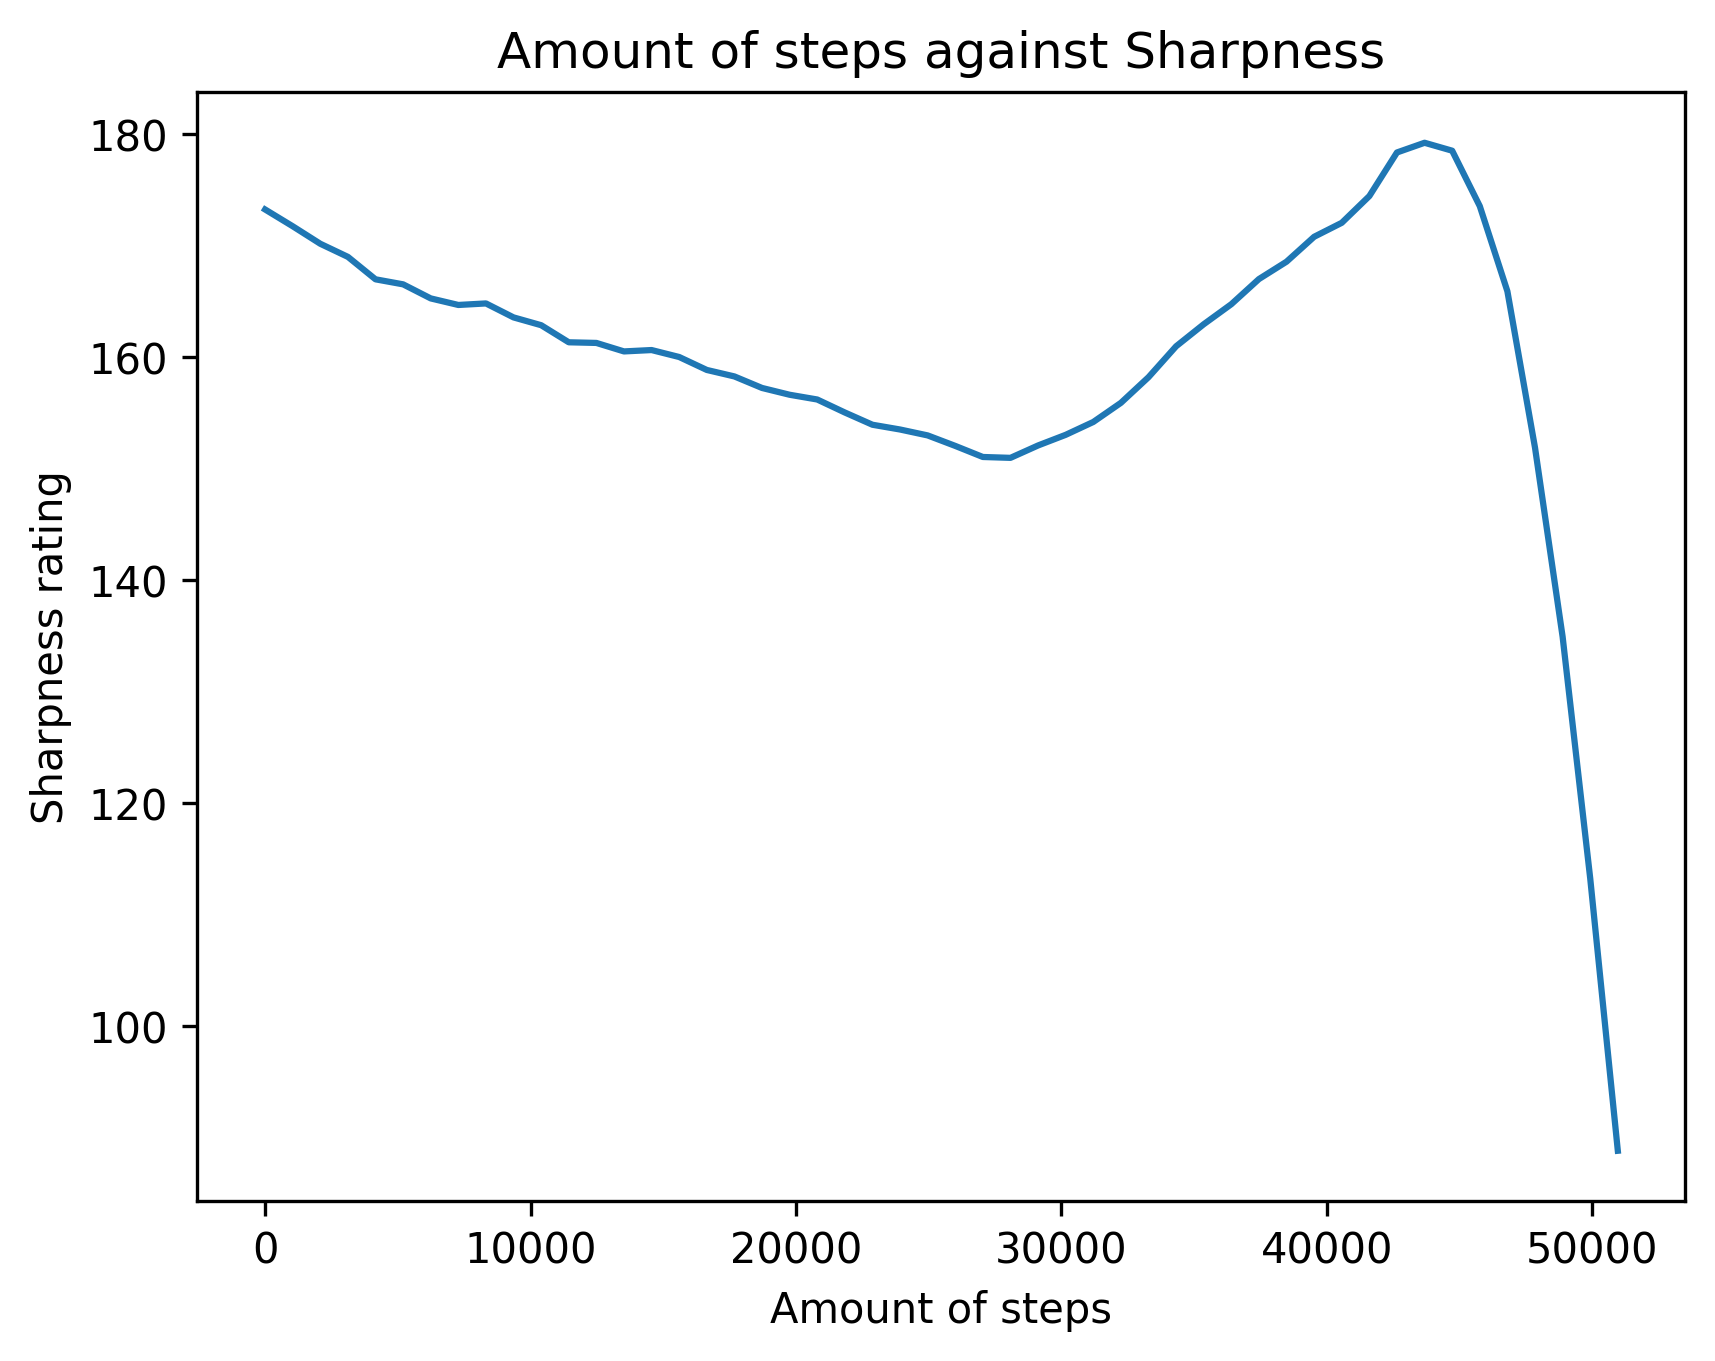
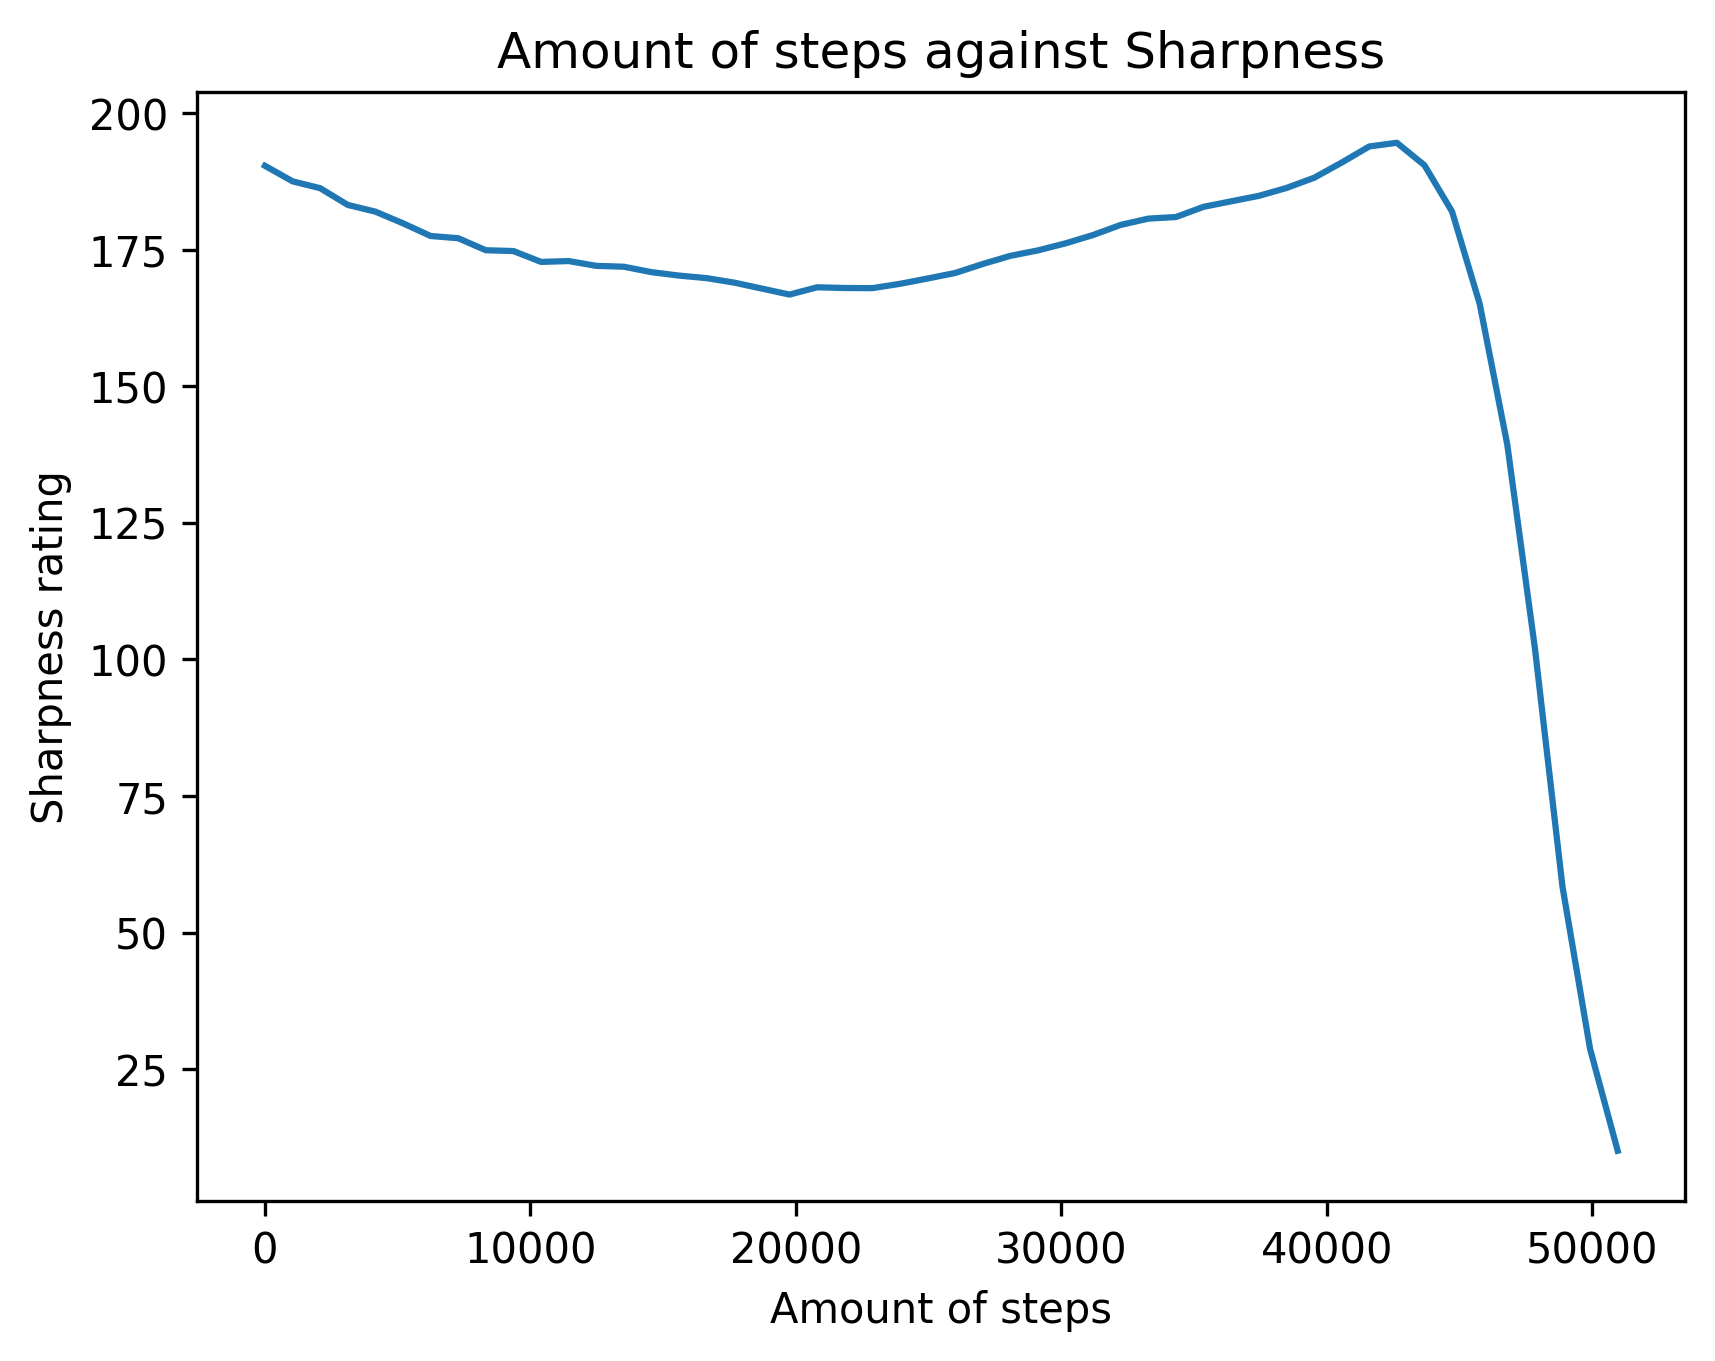
Speed improv

diff --git a/backend/main.py b/backend/main.py
@@ -6,6 +6,8 @@ import numpy as np
 import matplotlib.pyplot as plt
 from matplotlib.animation import FuncAnimation
 
+iterations = 20
+exposure_time = 3e3
 
 if __name__ == '__main__':
     pynq = pynq.PYNQ(DEBUG=False)  
@@ -15,7 +17,6 @@ if __name__ == '__main__':
         pynq.initMot()
 
         camera.start()
-        exposure_time = 3e3
         camera.set_exposure(exposure_time)
 
         #plt.ion()
@@ -31,7 +32,7 @@ if __name__ == '__main__':
         ax1.set_xlabel("Amount of steps")
         ax1.set_ylabel("Tenengrad rating with blur")
         ax1.set_title("Amount of steps against Tenengrad with blur")
-        li, = ax1.plot(positions, sharpness, 'x', color = 'g')
+        line1, = ax1.plot([], [], 'x', color = 'g')
 
         ax2.set_title("Image")
         ax2.set_axis_off()
@@ -44,36 +45,47 @@ if __name__ == '__main__':
         sharp = camera.tenengrad(gray)
         sharpness.append(sharp)
 
+        im = ax2.imshow(frame)
+
+        def init(): 
+            line1.set_data(positions, sharpness)
+            im.set_data(frame)
+            return line1,
+        
         step_size = 1e3
-        for i in range(30):
+        def animate(i): 
             pynq.moveRelativeSteps(step_size)
 
             frame = camera.get_frame()
-            ax2.imshow(frame)
+            
             positions.append(pynq.mot_absolute_steps)
 
             gray = camera.gaussian_blur(frame)
             sharp = camera.tenengrad(gray)
             sharpness.append(sharp)
+            line1.set_data(positions, sharpness)
+
+            ax1.set_xlim(positions[0], positions[-1])
+            ax1.set_ylim(np.min(sharpness), np.max(sharpness))
             
-            li.set_xdata(positions)
-            li.set_ydata(sharpness)
+            im.set_array(frame)
+            return line1, im
 
-            ax1.relim() 
-            ax1.autoscale_view(True,True,True) 
+        anim = FuncAnimation(fig, animate, init_func = init,
+                            frames = iterations, interval = 0, repeat=False)
 
-            fig.canvas.draw()
-            
-            plt.pause(0.0001)
-            #logging.info(sharpness, positions)
 
+        #plt.show()
         logging.info(sharpness[-1])
         
+        try:
+            plt.show()
+            logging.info('Closed plot')
+        except KeyboardInterrupt:
+            logging.error('Stopped by keyboard')
         pynq.moveToZero()
-        print('Stopped')
 
         #plt.ioff()
-        plt.show()
     
     else:
         logging.error("Error connecting")
